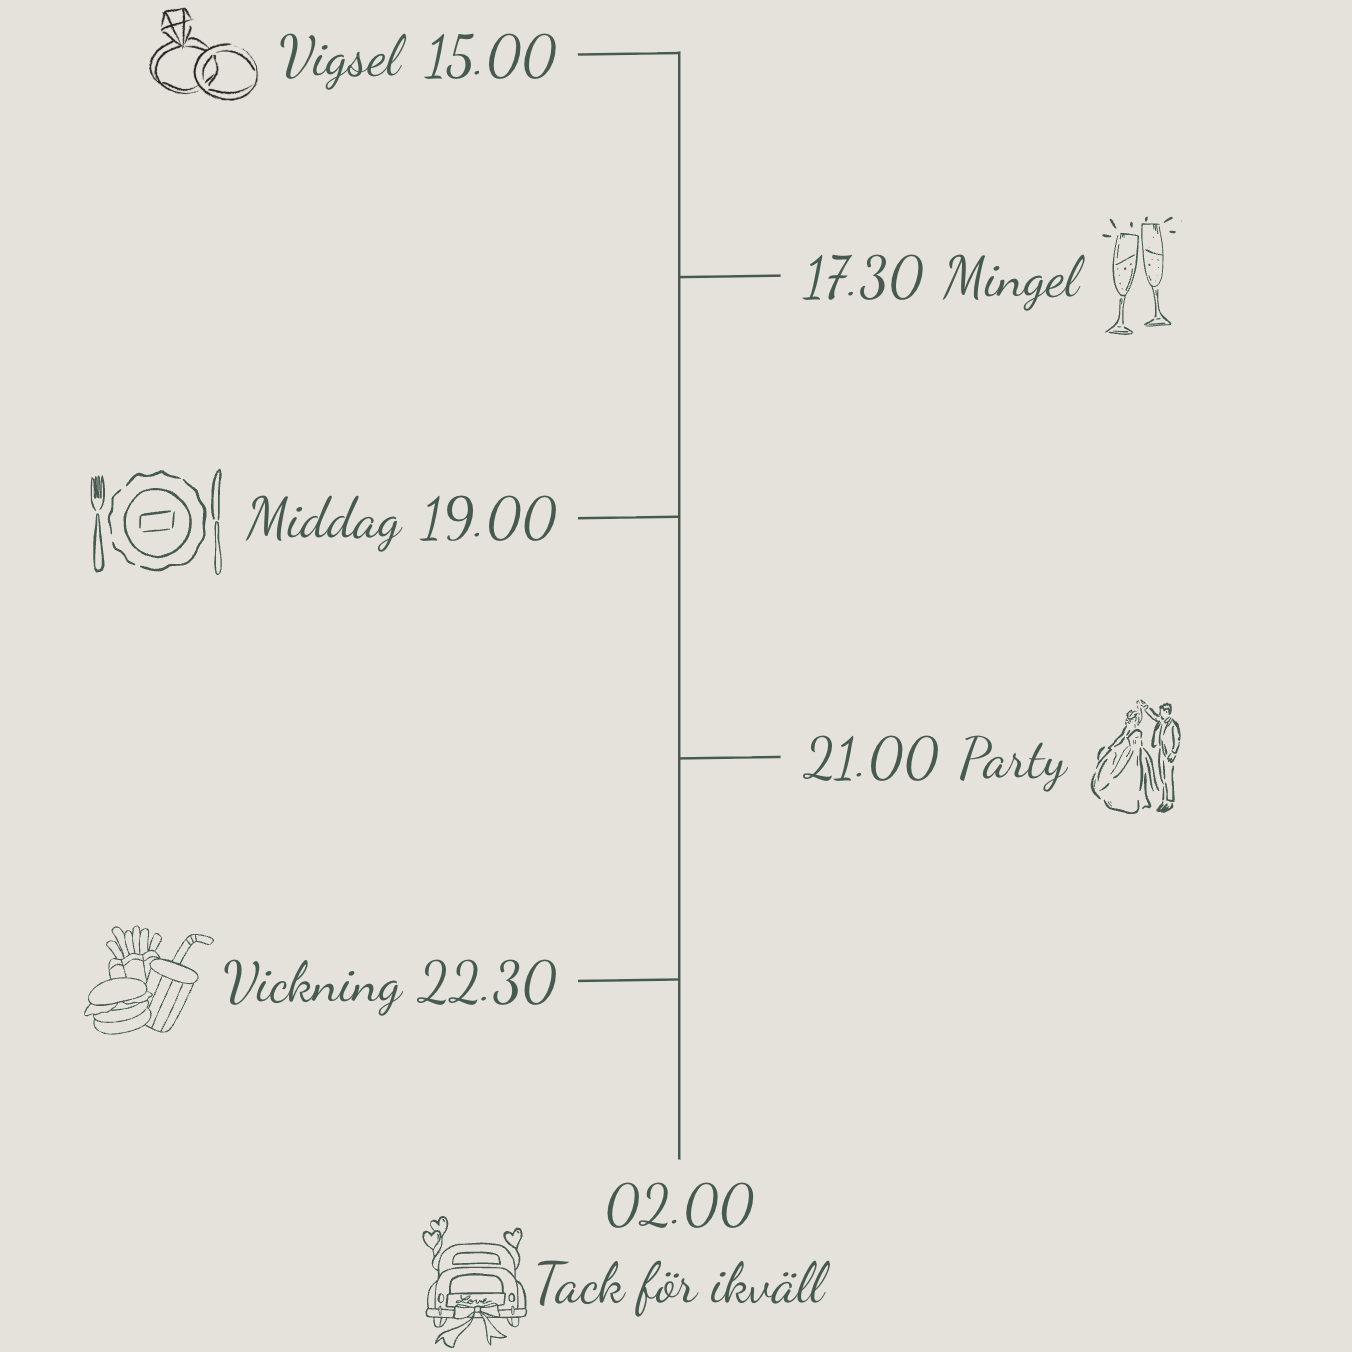
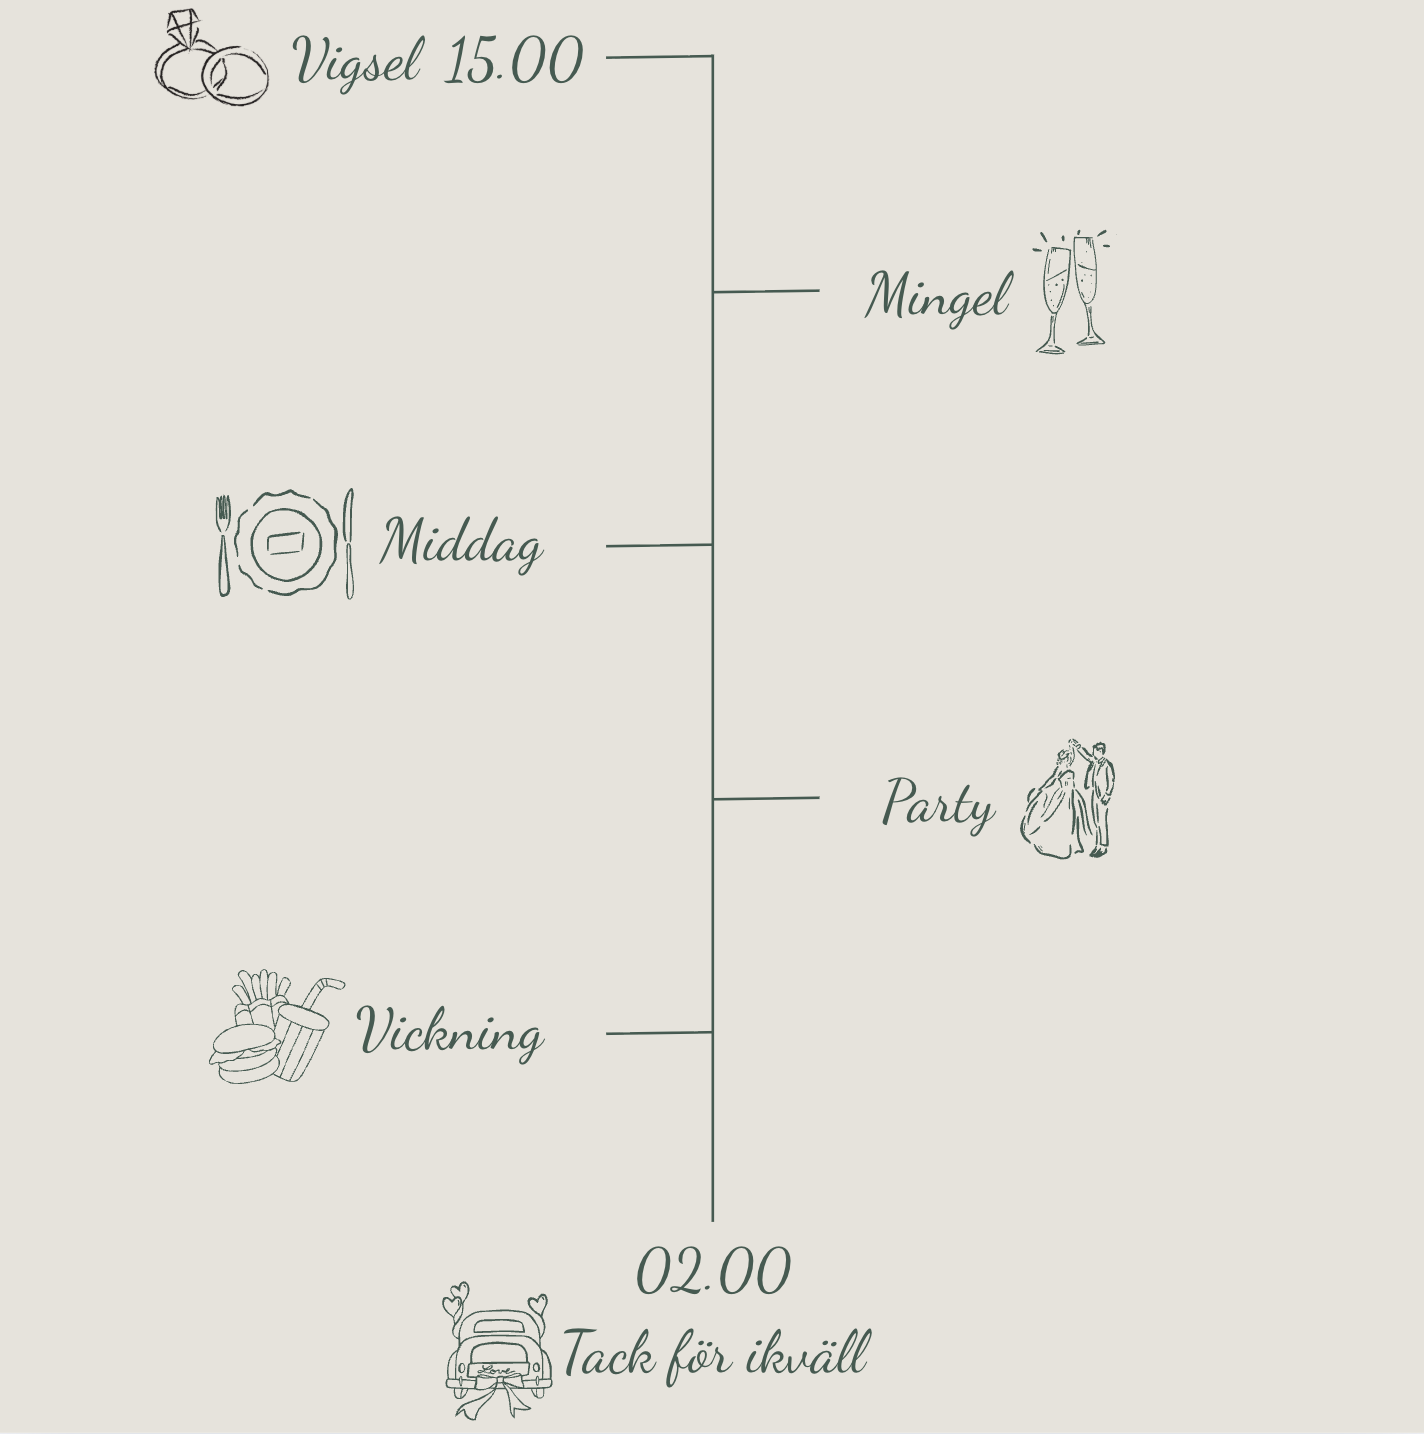
updatering

diff --git a/public/bridalparty.html b/public/bridalparty.html
@@ -13,7 +13,9 @@
   </head>
   <body>
     <div class="header">
-      <h1>Joel & Anna</h1>
+      <a href="index.html" style="text-decoration: none; color: inherit;">
+        <h1>Joel & Anna</h1>
+      </a>
       <p>1 Augusti 2026</p>
       <div class="hamburger" id="hamburger">&#9776; Meny</div>
 
@@ -40,7 +42,7 @@
           <h2>Nicole</h2>
           <img src="bilder/Nicole3.JPG" alt="Nicole" class="photo" />
           <p>
-            Nicole är en av Annas närmsta vänner. De spelade handboll
+            Nicole är en av Annas närmaste vänner. De spelade handboll
             tillsammans när de var väldigt små, men blev inte vänner förrän
             gymnasiet.
           </p>
@@ -49,7 +51,7 @@
           <h2>Milla</h2>
           <img src="bilder/milla.jpeg" alt="Milla" class="photo" />
           <p>
-            Milla är en av Annas närmsta vänner. De gick i samma klass i 7an
+            Milla är en av Annas närmaste vänner. De gick i samma klass i 7an
             till 9an, och tyckte livet var väldigt trist när de inte fick sitta
             bredvid varandra i klassrummet
           </p>
@@ -60,41 +62,32 @@
         <div class="person">
           <h2>Hugo</h2>
           <img src="bilder/Hugo.jpeg" alt="Hugo" class="photo" />
-          <p></p>
+          <p>
+            Hugo är en av Joels närmaste vänner. De spelade fotboll och
+            innebandy tillsammans när de var små och gick sedan i samma klass i
+            högstadiet. De gillar även att resa och titta på fotboll tillsammans
+            även om de hejar på olika lag
+          </p>
         </div>
         <div class="person">
           <h2>Benedict</h2>
           <img src="bilder/ben.png" alt="Benedict" class="photo" />
-          <p></p>
+          <p>
+            Benedict, Ben, är en av Joels närmaste vänner. De träffades första
+            dagen på insparken på universitetet och har sedan dess utforskat
+            både Malmö och Spanien tillsammans.
+          </p>
         </div>
       </div>
       <h1>Kvällens toastmasters</h1>
       <div class="värdpar">
         <div class="person">
-          <!--<h2>?</h2>
-          <img src="bilder/Nicole2.JPG" alt="hemlig" class="photo" />
-
-          <p></p>
-          <p>Kontaktuppgifter</p>
-          <li>
-            <ul>
-              Telefon:
-              <a href="">+????5331418</a>
-            </ul>
-            <ul>
-              Mail:
-              <a href="">?@gmail.com</a>
-            </ul>
-          </li>-->
-        </div>
-        <div class="person">
-          <!--<h2>Nicole (igen)</h2>
-          <img src="bilder/Nicole.JPG" alt="Nicole" class="photo" />
+          <h2>Nicole</h2>
+          <img src="bilder/Nicole3.JPG" alt="Nicole" class="photo" />
           <p>
             Detta är samma Nicole som är brudtärna. Hon är trevlig, kontakta
             henne ifall du vill hålla tal eller liknande på bröllopet
           </p>
-          <br />
           <p>Kontaktuppgifter</p>
           <li>
             <ul>
@@ -103,7 +96,28 @@
             </ul>
             <ul>
               Mail:
-              <a href="mailto:Nicoletodic@outlook.com">Nicoletodic@outlook.com</a>-->
+              <a href="mailto:Nicoletodic@outlook.com"
+                >Nicoletodic@outlook.com</a
+              >
+            </ul>
+          </li>
+        </div>
+        <div class="person">
+          <h2>Klara</h2>
+          <img src="bilder/" alt="Klara" class="photo" />
+          <p></p>
+          <br />
+          <p>Kontaktuppgifter</p>
+          <li>
+            <ul>
+              Telefon:
+              <a href="sms:073-5331418">070-022 33 86</a>
+            </ul>
+            <ul>
+              Mail:
+              <a href="mailto:Klaraweberberger@gmail.com"
+                >Klaraweberberger@gmail.com</a
+              >
             </ul>
           </li>
         </div>

diff --git a/public/index.html b/public/index.html
@@ -12,8 +12,11 @@
     />
   </head>
   <body>
+    <
     <div class="header">
-      <h1>Joel & Anna</h1>
+      <a href="index.html" style="text-decoration: none; color: inherit">
+        <h1>Joel & Anna</h1>
+      </a>
       <p>1 Augusti 2026</p>
       <div class="hamburger" id="hamburger">&#9776; Meny</div>
 
@@ -32,6 +35,7 @@
         />
       </div>
     </div>
+
     <div class="information">
       <div class="information-text">
         <div class="mainInfo">
@@ -48,11 +52,23 @@
             <h2>Middag & Fest</h2>
             <p>
               Efter vigseln är ni varmt välkomna till Gourmetgården på
-              Katrinetorp i Malmö. Minglet börjar klockan 17.30, och därefter
-              väntar middag och en fest vi sent ska glömma. Vi hoppas på en
-              kväll fylld av skratt, dans och kärlek!
+              Katrinetorp i Malmö för mingel, följt av middag och en fest vi
+              sent ska glömma. Vi hoppas på en kväll fylld av skratt, dans och
+              kärlek!
             </p>
           </div>
+
+          <div class="mainInfo-part">
+            <h2>Transport</h2>
+            <p>
+              Det enklaste sättet att ta sig till Fosie kyrka är med bil. Det
+              går också att åka buss, närmaste hållplats är Malmö Fosie kyrka
+              och buss 8 stannar där. För de som inte kör bil kan vi varmt
+              rekommendera Uber eller Bolt. Parkering finns både vid kyrkan och
+              vid Katrinetorp.
+            </p>
+          </div>
+
           <div class="mainInfo-part">
             <h2>Vilka får komma?</h2>
             <p>
@@ -65,20 +81,10 @@
           <div class="mainInfo-part">
             <h2>Klädkod</h2>
             <p>
-              <b>Mörk kostym</b> <br />
-              Undvik vitt, svart och grönt!
+              <b>Mörk kostym</b>
             </p>
           </div>
-          <div class="mainInfo-part">
-            <h2>Transport</h2>
-            <p>
-              Det enklaste sättet att ta sig till Fosie kyrka är med bil:
-              Lindängsvägen 2, Malmö. Det går självklart att åka buss, närmaste
-              hållplats är Malmö Fosie kyrka och buss 8 stannar där, men för de
-              som inte kör bil kan vi varmt rekommendera Uber eller Bolt.
-              Parkering finns både vid kyrkan och vid Katrinetorp.
-            </p>
-          </div>
+
           <div class="mainInfo-part">
             <h2>Önskelista</h2>
             <p>
@@ -88,7 +94,7 @@
           </div>
         </div>
         <h2>Tidslinje</h2>
-
+        <p>Exakta tider presenteras senare.</p>
         <img src="bilder/timeline2.png" alt="Tidslinje för bröllopsdagen" />
       </div>
     </div>

diff --git a/public/gallery.html b/public/gallery.html
@@ -13,11 +13,13 @@
   </head>
   <body>
     <div class="header">
-      <h1>Joel & Anna</h1>
+      <a href="index.html" style="text-decoration: none; color: inherit;">
+        <h1>Joel & Anna</h1>
+      </a>
       <p>1 Augusti 2026</p>
       <div class="hamburger" id="hamburger">&#9776; Meny</div>
 
-      <div class="button-row"id="navMenu">
+      <div class="button-row" id="navMenu">
         <a href="index.html" class="text-button">Hem</a>
         <a href="ourStory.html" class="text-button">Vår story</a>
         <a href="gallery.html" class="text-button">Galleri</a>
@@ -56,7 +58,7 @@
         <p>Joel: <a href="sms:072-2317617">072-231 76 17</a></p>
       </li>
     </footer>
-    
+
     <script>
       const uploadForm = document.getElementById("upload-form");
       const gallery = document.getElementById("gallery");

diff --git a/public/StyleSheet.css b/public/StyleSheet.css
@@ -18,6 +18,8 @@ body {
   padding-top: 60px;
   padding-bottom: 30px;
   background-color: transparent;
+  text-decoration: none; 
+
 }
 
 .header h1 {
@@ -26,6 +28,11 @@ body {
   font-size: 81px;
   color: #405b50;
   margin-bottom: 10px;
+}
+
+.header a h1 {
+  text-decoration: none; 
+  cursor: pointer; 
 }
 
 .header p {

diff --git a/public/ourStory.html b/public/ourStory.html
@@ -13,7 +13,9 @@
   </head>
   <body>
     <div class="header">
-      <h1>Joel & Anna</h1>
+      <a href="index.html" style="text-decoration: none; color: inherit;">
+        <h1>Joel & Anna</h1>
+      </a>
       <p>1 Augusti 2026</p>
       <div class="hamburger" id="hamburger">&#9776; Meny</div>
 

diff --git a/public/rsvp.html b/public/rsvp.html
@@ -13,7 +13,9 @@
   </head>
   <body>
     <div class="header">
-      <h1>Joel & Anna</h1>
+      <a href="index.html" style="text-decoration: none; color: inherit;">
+        <h1>Joel & Anna</h1>
+      </a>
       <p>1 Augusti 2026</p>
       <div class="hamburger" id="hamburger">&#9776; Meny</div>
 

diff --git a/public/script.js b/public/script.js
@@ -14,7 +14,6 @@ window.addEventListener("scroll", () => {
 });
 
 document.addEventListener("DOMContentLoaded", () => {
-  console.log("DOM fully loaded and parsed");
   const hamburger = document.getElementById("hamburger");
   const navMenu = document.getElementById("navMenu");
 
